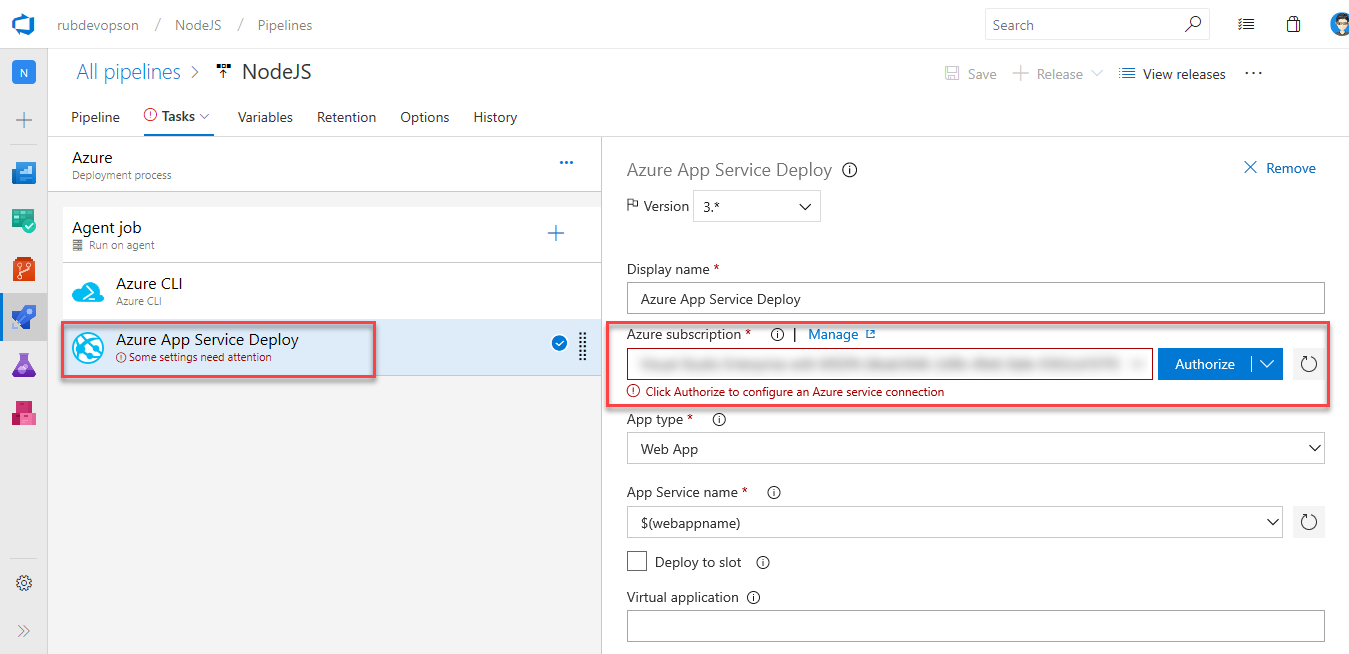
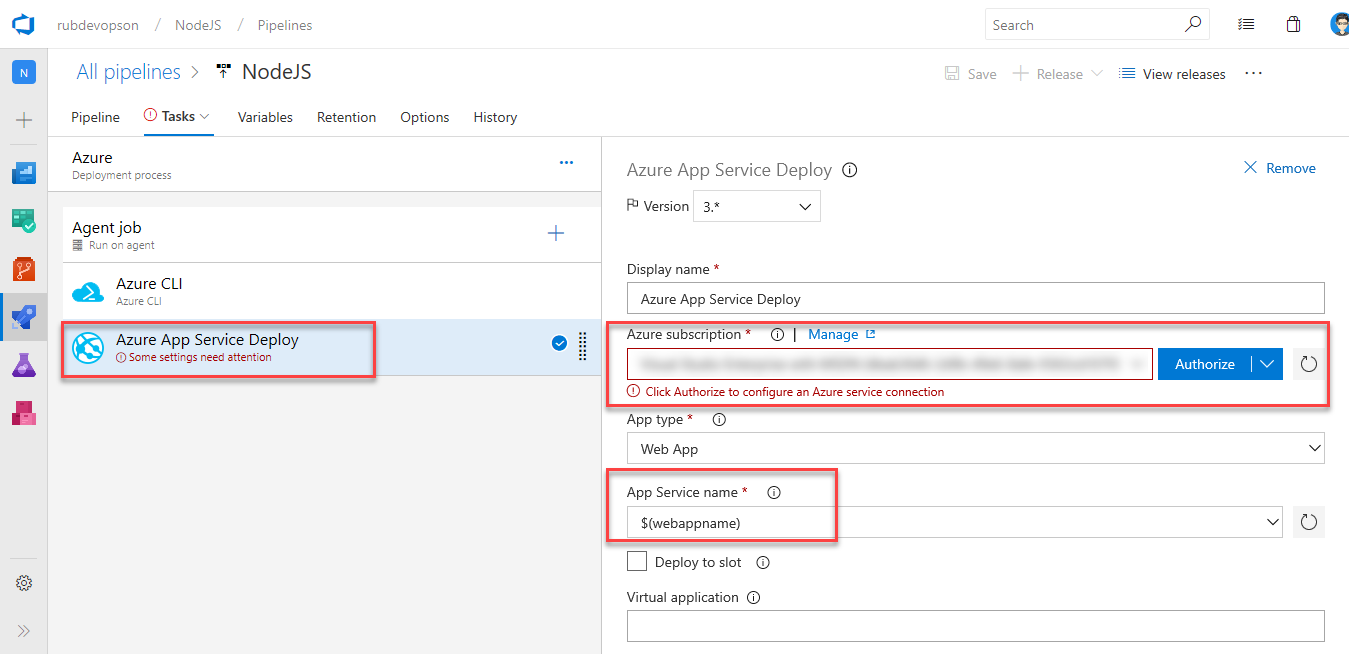
updated content

Changed region(s): [[0.4359, 0.7034, 0.6227, 0.8563]]

diff --git a/labs/vsts/nodejs/readme.md b/labs/vsts/nodejs/readme.md
@@ -85,6 +85,8 @@ In this exercise, we will configure an Azure pipeline to deploy the NodeJS expre
 
    ![Azure Subscription](media/authorize1.png)
 
+   * $(webappname): We will use the WebApp which was created in the previous task to deploy the application and hence we need to configure the Azure service connection
+
 1. Click on the pipeline to set the trigger to continuous deployment and save the release pipeline.
 
    ![Continuous Deployment](media/enablecd.png)
